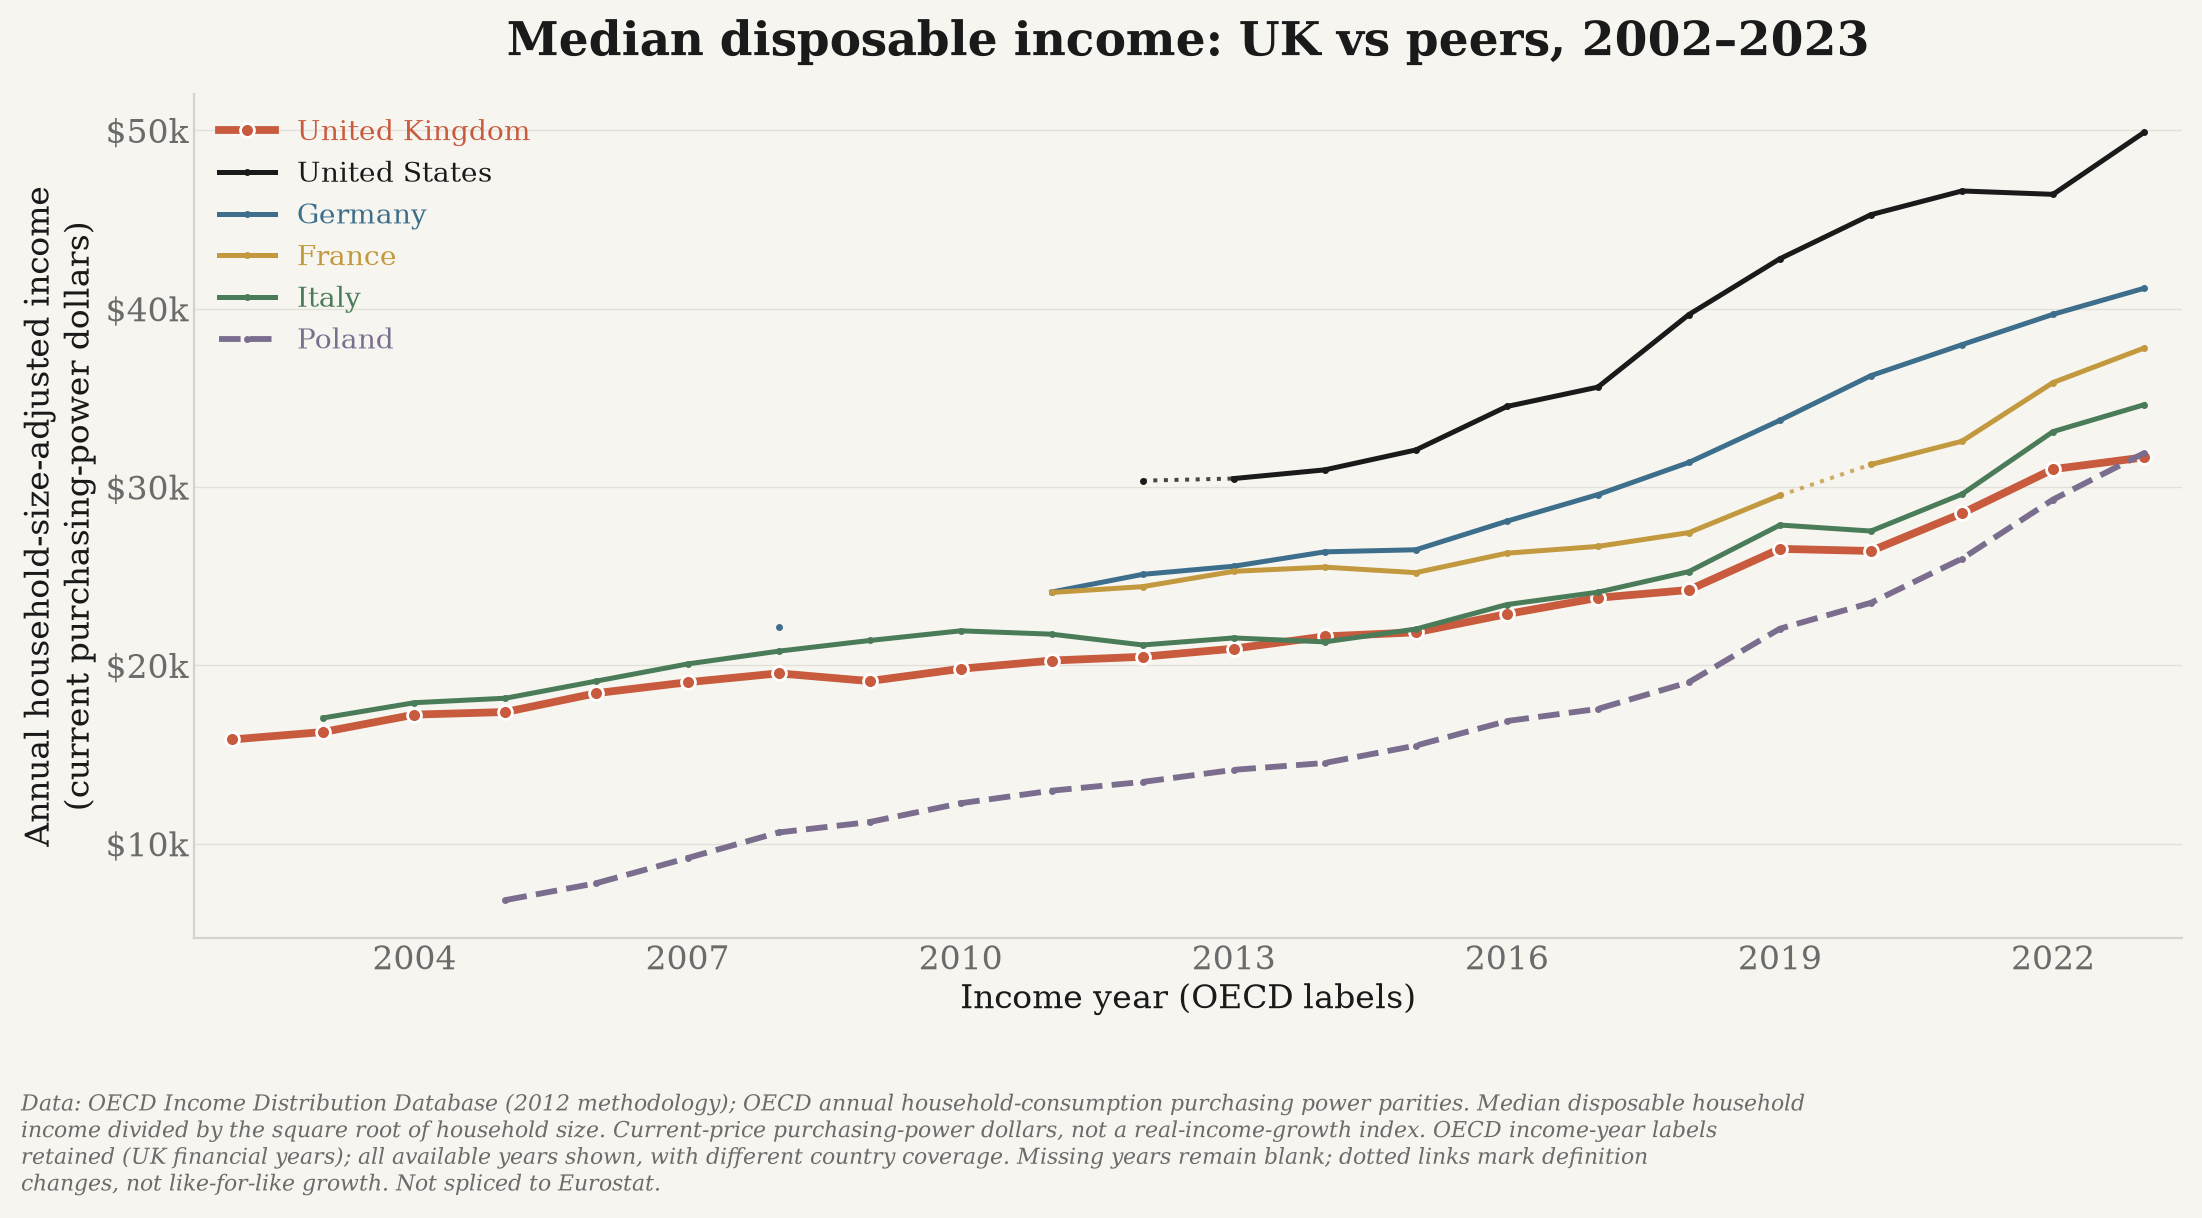
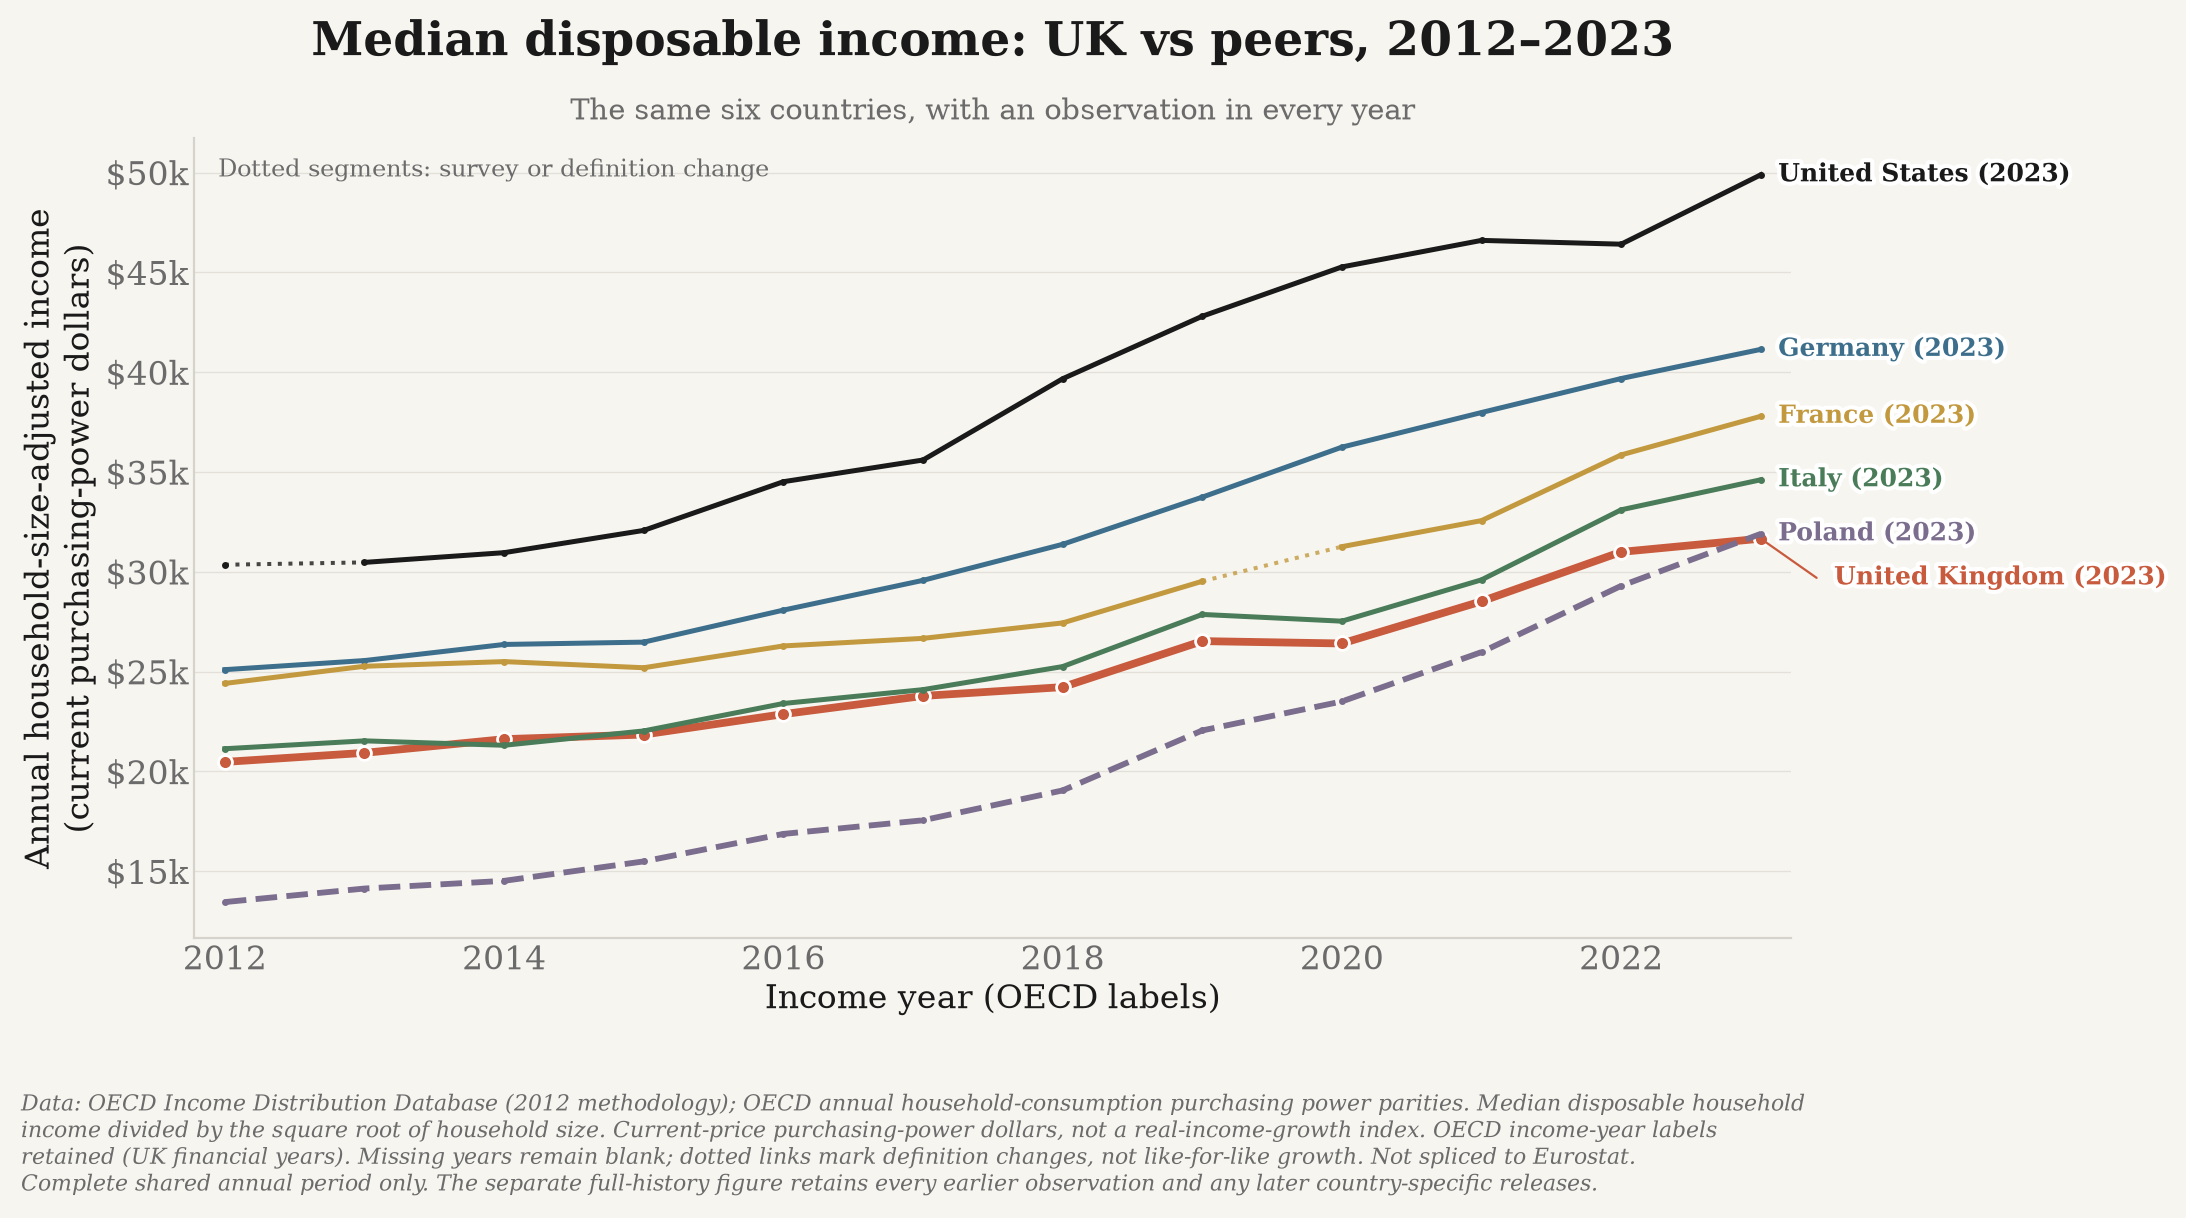
Show complete annual income comparisons and retain downloadable history

diff --git a/europe_data/plot_uk_decline.py b/europe_data/plot_uk_decline.py
@@ -95,7 +95,7 @@ SOURCE_OECD = (
     "Data: OECD Income Distribution Database (2012 methodology); OECD annual household-consumption "
     "purchasing power parities. Median disposable household income divided by the square root of household size. "
     "Current-price purchasing-power dollars, not a real-income-growth index. OECD income-year labels retained "
-    "(UK financial years); all available years shown, with different country coverage. "
+    "(UK financial years). "
     "Missing years remain blank; dotted links mark definition changes, not like-for-like growth. "
     "Not spliced to Eurostat."
 )
@@ -291,18 +291,44 @@ def fig_median_income_non_oecd(df: pd.DataFrame, out: pathlib.Path, *, source: s
 
 def fig_median_income_oecd(df: pd.DataFrame, out: pathlib.Path) -> None:
     income = df[df[oecd_income.METRIC].notna()]
+    coverage = []
     for country, *_ in INCOME_PEERS:
         series = income[income["country"] == country]
         if series.empty:
             raise ValueError(f"Missing OECD median disposable income: {country}")
+        coverage.append(set(series["year"]))
     selected = income[income["country"].isin([country for country, *_ in INCOME_PEERS])]
+    shared = set.intersection(*coverage)
+    if not shared:
+        raise ValueError("OECD income has no complete common annual comparison")
+    common_end = max(shared)
+    common_start = common_end
+    while common_start - 1 in shared:
+        common_start -= 1
+    if common_start == common_end:
+        raise ValueError("OECD income has no complete common annual comparison spanning multiple years")
+    comparison = selected[selected["year"].between(common_start, common_end)]
+    _line_chart(
+        comparison, oecd_income.METRIC,
+        f"Median disposable income: UK vs peers, {int(common_start)}\u2013{int(common_end)}",
+        "Annual household-size-adjusted income\n(current purchasing-power dollars)",
+        lambda value, _: f"${value / 1000:.0f}k",
+        SOURCE_OECD + " Complete shared annual period only. The separate full-history figure "
+        "retains every earlier observation and any later country-specific releases.",
+        "median_disposable_income_oecd.png", out, xlabel="Income year (OECD labels)",
+        subtitle="The same six countries, with an observation in every year",
+        end_labels=True,
+    )
     start, end = int(selected["year"].min()), int(selected["year"].max())
     _line_chart(
         selected, oecd_income.METRIC,
-        f"Median disposable income: UK vs peers, {start}\u2013{end}",
+        f"Median disposable income: full published history, {start}\u2013{end}",
         "Annual household-size-adjusted income\n(current purchasing-power dollars)",
-        lambda value, _: f"${value / 1000:.0f}k", SOURCE_OECD,
-        "median_disposable_income_oecd.png", out, xlabel="Income year (OECD labels)",
+        lambda value, _: f"${value / 1000:.0f}k",
+        SOURCE_OECD + " All available years retained; country coverage differs. "
+        "Use the companion common-period figure for the complete six-country comparison.",
+        "median_disposable_income_oecd_history.png", out, xlabel="Income year (OECD labels)",
+        subtitle="Coverage varies by country; missing observations are not filled",
     )
 
 

diff --git a/scripts/build_site.py b/scripts/build_site.py
@@ -46,6 +46,7 @@ class Analysis:
     output: str
     charts: tuple[str, ...]
     description: str
+    downloads: tuple[tuple[str, str], ...] = ()
 
     @property
     def featured(self) -> str:
@@ -57,7 +58,8 @@ ANALYSES = (
              ("uk_gdp_relative_to_peers_simple.png", "uk_real_gdp_relative_to_peers.png",
               "median_disposable_income_oecd.png"),
              "Nominal GDP at market exchange rates and real GDP at fixed 2021 purchasing power parities, "
-             "alongside median disposable household income."),
+             "alongside median disposable household income.",
+             downloads=(("median_disposable_income_oecd_history.png", "Full income history (PNG)"),)),
     Analysis("purchasing-power", "Purchasing power", "Economy", "ppp_data", "ppp",
              ("ppp_gdp_per_capita_growth.png", "ppp_gdp_relative_to_peers.png",
               "ppp_gap_decomposition_uk_us.png"),
@@ -143,7 +145,10 @@ CHART_COMPARATORS = {
          "uk_ppp_gdp_relative_to_peers"),
         {"United States", "EU average", "Poland"},
     ),
-    "median_disposable_income_oecd": {"United Kingdom", "United States", "Germany", "France", "Italy", "Poland"},
+    **dict.fromkeys(
+        ("median_disposable_income_oecd", "median_disposable_income_oecd_history"),
+        {"United Kingdom", "United States", "Germany", "France", "Italy", "Poland"},
+    ),
     "median_income_pip": {"United Kingdom", "United States", "Germany", "France", "Italy", "Poland"},
     "median_disposable_income_pps": {"United Kingdom", "Germany", "France", "Italy", "Poland", "EU-27"},
     "ppp_gdp_per_capita_growth": {"United Kingdom", "United States", "Germany", "France", "Italy", "Poland", "EU average"},
@@ -508,6 +513,11 @@ def homepage() -> str:
 
 def analysis_page(analysis: Analysis) -> str:
     page = Path(analysis.slug) / "index.html"
+    downloads = "".join(
+        f'<a href="{relative_url(Path("outputs") / analysis.output / filename, page)}" download>'
+        f'{escape(label)}</a> &middot; '
+        for filename, label in analysis.downloads
+    )
     figures = []
     for filename in analysis.charts:
         chart = Path("outputs") / analysis.output / filename
@@ -528,6 +538,7 @@ def analysis_page(analysis: Analysis) -> str:
     </section>
     <section class="chart-gallery" aria-label="Charts">{''.join(figures)}</section>
     <p class="context">
+      {downloads}
       <a href="{REPOSITORY}/tree/master/outputs/{analysis.output}">All charts on GitHub &#8599;</a>
       &middot; <a href="{REPOSITORY}/blob/master/{analysis.module}/README.md">Full documentation on GitHub &#8599;</a>
     </p>"""
@@ -610,6 +621,7 @@ def build(root: Path = ROOT, *, redirects: bool = False) -> Path:
         required = {
             Path(analysis.module) / "README.md",
             *(Path("outputs") / analysis.output / chart for chart in analysis.charts),
+            *(Path("outputs") / analysis.output / filename for filename, _ in analysis.downloads),
         }
         if missing := required - files:
             raise ValueError(f"{analysis.title}: missing tracked publication inputs: {sorted(missing)}")

diff --git a/tests/test_pipeline.py b/tests/test_pipeline.py
@@ -317,6 +317,8 @@ def test_oecd_income_chart_has_recent_annual_observations_without_bridging_defin
     fig = captured[0]
     ax = fig.axes[0]
     assert "2013\u20132023" in ax.get_title()
+    assert "same six countries" in ax.texts[0].get_text().lower()
+    assert len(captured) == 2
     assert ax.get_xlabel() == "Income year (OECD labels)"
     assert {line.get_label() for line in ax.lines} >= {"United States", "Poland"}
     assert len(ax.lines) == 6
@@ -364,7 +366,8 @@ def test_income_chart_preserves_early_history_and_latest_country_observations(mo
     rows = [
         {"country": country, "year": year, oecd_income.METRIC: value}
         for country, *_ in plots.INCOME_PEERS
-        for year, value in ((2013, 20000.), (2023, 30000.))
+        for year in range(2013, 2024)
+        for value in [20000. + (year - 2013) * 1000]
     ]
     rows.extend([
         {"country": "United Kingdom", "year": 2002, oecd_income.METRIC: 12000.},
@@ -373,13 +376,29 @@ def test_income_chart_preserves_early_history_and_latest_country_observations(mo
     captured = []
     monkeypatch.setattr(plots, "save_chart", lambda fig, *a, **k: captured.append(fig))
     plots.fig_median_income_oecd(pd.DataFrame(rows), tmp_path)
-    ax = captured[0].axes[0]
+    comparison = captured[0].axes[0]
+    assert "2013\u20132023" in comparison.get_title()
+    assert all(list(line.get_xdata()) == list(range(2013, 2024)) for line in comparison.lines)
+    ax = captured[1].axes[0]
     assert "2002\u20132024" in ax.get_title()
     uk, us = ax.lines[:2]
     assert uk.get_xdata()[0] == 2002
     assert uk.get_ydata()[0] == 12000.
     assert us.get_xdata()[-1] == 2024 and us.get_ydata()[-1] == 45000.
     assert pd.isna(uk.get_ydata()[1:11]).all()
+
+
+def test_income_comparison_rejects_a_single_shared_year_instead_of_filling_gaps(monkeypatch, tmp_path):
+    import pandas as pd
+    import pytest
+    from europe_data import oecd_income, plot_uk_decline as plots
+
+    rows = [
+        {"country": country, "year": year, oecd_income.METRIC: 20000.}
+        for country, *_ in plots.INCOME_PEERS for year in (2013, 2023)
+    ]
+    with pytest.raises(ValueError, match="complete common annual comparison"):
+        plots.fig_median_income_oecd(pd.DataFrame(rows), tmp_path)
 
 
 def test_simplified_gdp_ratio_shows_us_eu_and_poland(monkeypatch, tmp_path):

diff --git a/tests/test_site.py b/tests/test_site.py
@@ -101,7 +101,7 @@ def site_repository(tmp_path):
             f"![Chart](../outputs/{analysis.output}/{analysis.featured})\n\n"
             "[Overview](../README.md#scope)\n\n[Sources](#sources)\n"
         )
-        for filename in analysis.charts:
+        for filename in (*analysis.charts, *(name for name, _ in analysis.downloads)):
             chart = root / "outputs" / analysis.output / filename
             chart.parent.mkdir(parents=True, exist_ok=True)
             chart.write_bytes(b"test image")
@@ -174,6 +174,12 @@ def test_public_gdp_comparisons_keep_nominal_and_fixed_ppp_without_third_measure
         "uk_gdp_relative_to_peers_simple.png", "uk_real_gdp_relative_to_peers.png",
         "median_disposable_income_oecd.png",
     ]
+    history = page.find("a", string="Full income history (PNG)")
+    assert history is not None and history.has_attr("download")
+    assert urlsplit(history["href"]).path == (
+        "../outputs/gdp_income/median_disposable_income_oecd_history.png"
+    )
+    assert (output / "outputs/gdp_income/median_disposable_income_oecd_history.json").exists()
 
 
 def test_supplemental_charts_are_not_automatically_embedded(site_repository):

diff --git a/europe_data/README.md b/europe_data/README.md
@@ -119,16 +119,22 @@ it does **not** identify a causal currency effect or establish a loss of househo
 ### Median disposable income (a "typical household" measure)
 ![Median disposable income, adjusted for household size and purchasing power](../outputs/gdp_income/median_disposable_income_oecd.png)
 
-The public comparison uses the **OECD Income Distribution Database**, with annual
-observations for the UK, US, **Poland**, Germany, France and Italy across **all available
-years**, currently **2002–2023** overall. Coverage starts in 2002 for the UK, 2003
-for Italy, 2005 for Poland, 2008 for Germany, 2011 for France and 2012 for the US. The earlier
-2013–2023 display window unnecessarily hid available observations; it is no longer
-used. Unlike the Eurostat series, the UK continues after 2018. Each country's
-latest observation is retained even when peers have not published the same year.
-Missing years remain blank; dotted links explicitly identify definition changes,
-not like-for-like growth. No older methodology is spliced in to manufacture
-additional annual observations.
+The public comparison uses the **OECD Income Distribution Database**, showing the
+latest complete shared annual period for the UK, US, **Poland**, Germany, France
+and Italy. The current window is **2012–2023**, with **12 published observations per
+country**. This avoids isolated early points and uneven line starts masquerading
+as a complete historical comparison.
+
+The [full published history](../outputs/gdp_income/median_disposable_income_oecd_history.png)
+is retained separately, together with its hover-data sidecar and the complete CSV.
+The website links to this history from the GDP and incomes page. It preserves every
+available observation, currently **2002–2023** overall: the UK starts in 2002,
+Italy in 2003, Poland in 2005, Germany in 2008, France in 2011 and the US in 2012.
+Earlier gaps are present in the OECD source, not removed by the fetcher.
+Each country's latest observation remains in the history even if other countries
+have not published that year. Unlike Eurostat, the UK continues after 2018.
+Missing years are not filled; dotted links identify definition changes, not
+like-for-like growth. Older methodology is not spliced in to manufacture annual values.
 
 Income is disposable household income after taxes and transfers, divided by the
 square root of household size. The national-currency medians are divided by
@@ -179,7 +185,7 @@ The PIP chart shows **2000 onward**, not a 1970 start that leaves most early pee
 histories blank. Every country keeps its own latest observation and genuine gaps.
 End labels name each country and its year rather than implying a common current
 endpoint. Both charts' **full earlier source histories remain in the CSV**; the
-OECD comparison still shows its complete available history.
+OECD full-history figure still preserves its complete available history.
 
 Refreshes reject loss of previously published country/year/metric observations,
 duplicate cells and non-finite values before replacing any source tables. Partial
